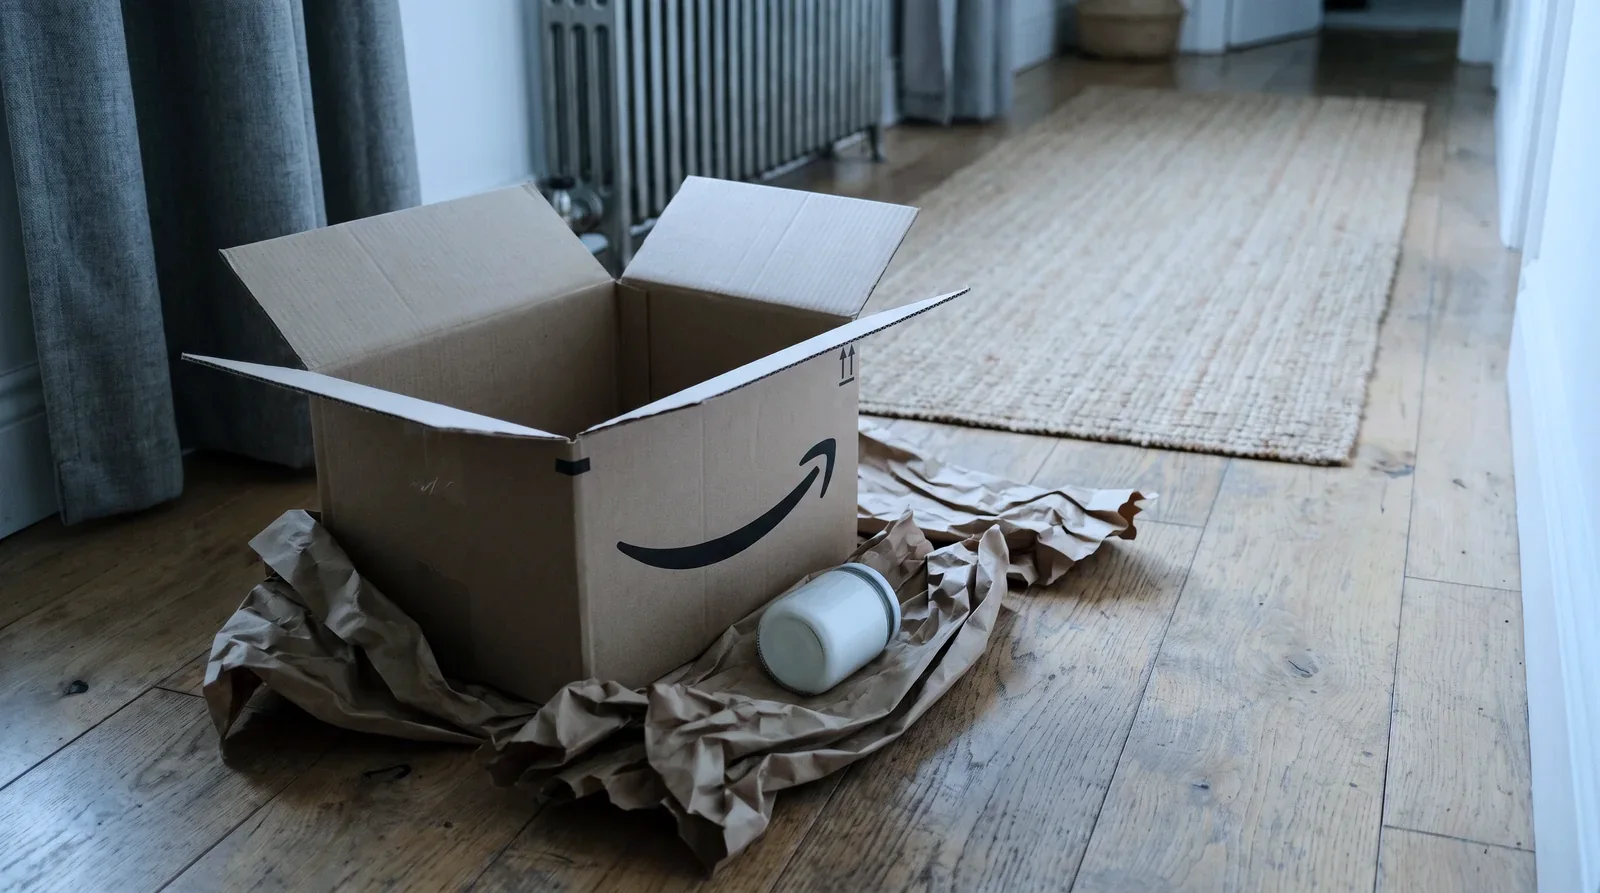
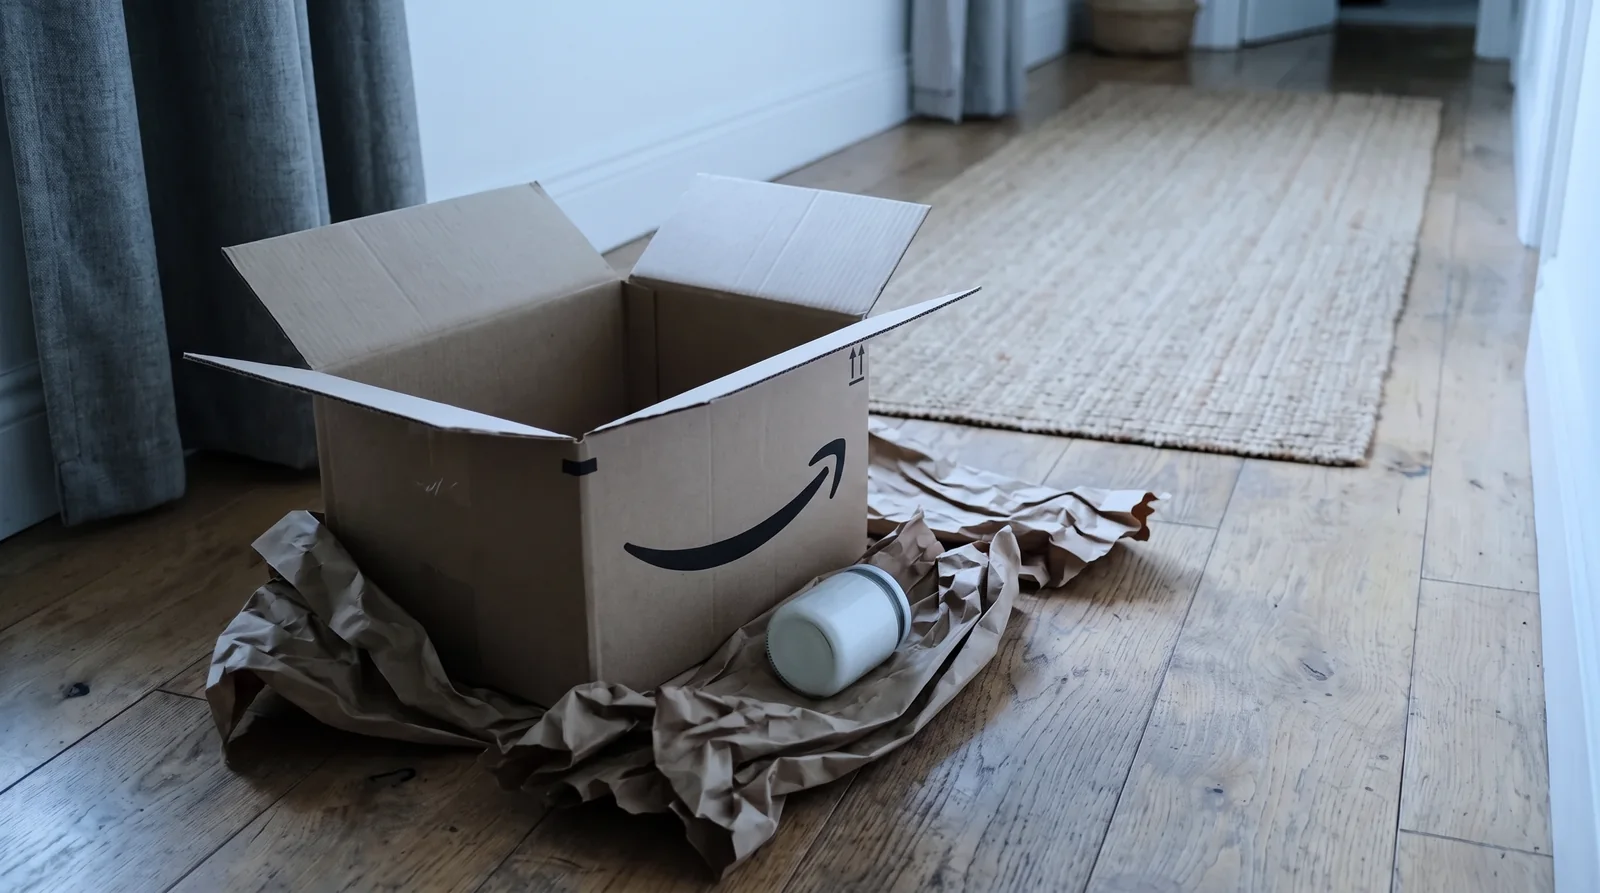
Skincare on Amazon villain: radiator removed from the hallway

diff --git a/blog-pipeline/photos-completed/is-it-safe-to-buy-skincare-on-amazon.md b/blog-pipeline/photos-completed/is-it-safe-to-buy-skincare-on-amazon.md
@@ -4,7 +4,7 @@ post_title: "Is It Safe to Buy Skincare on Amazon? (2026)"
 slug: is-it-safe-to-buy-skincare-on-amazon
 status: done
 cameron_processed: false
-note: "SHOPPER TRACK, shot on Higgsfield nano-banana-pro at native 2752x1536 and delivered at 1600px webp. Every frame run through the 14-point checklist in PHOTO-CLAUDE-RULES.md before committing. THE VILLAIN IS THE MARKETPLACE, NOT A BRAND, so the recognisable object is the delivery box itself: a plain brown corrugated box carrying ONE black curved smile arrow and no other printing, which was looked up in Chrome first. The cream is deliberately a small PLAIN WHITE JAR with no label, because the mercury creams in the California case were unbranded imports and putting a real skincare brand on screen would blame the wrong company. ONE woman across the set: a Black woman of about 52 with dark brown skin, shoulder-length black hair going grey pulled back, faint darker patches on her cheeks and jaw, a soft lilac linen shirt. THE ROOM is her modern bedroom: white oak dressing table, rectangular mirror, rattan-back chair, sage green upholstered bed, framed abstract prints, trailing plant, full length linen curtains. Hero is her patting the cream onto her cheekbone on an ordinary morning, hopeful and unsuspicious, the opened box and packing paper beside her. VILLAIN CARRIES THE ARGUMENT with nobody in it: the opened box on the hall floor just inside the front door, paper spilling out and the plain white jar sitting in it. It came from the place she orders everything from, and it looks completely ordinary. Turning point has her set the jar down, take her hand off it and turn to the window, the box already flattened against the wall. BELONGING IS A NEW SETTING: two clearly different women in their fifties scattering feed for hens in a tidy modern garden with a wooden coop, both laughing, scoops held low. Freedom is the warmest: her in the open garden doorway of her modern kitchen with the morning sun full on her bare face, laughing. Two frames were reshot because the model changed her ethnicity between shots, which broke continuity: the approved hero was fed back as an image reference to lock her face. Freedom redone 2026-10-12 for check 15; it was the only kitchen frame and was a tight crop of a kitchen corner at a door. New freedom is a wide shot of a big lived-in kitchen in a suburban house in Atlanta, Georgia: oak shaker cabinets, white quartz island with a bowl of lemons, stainless French-door fridge, dishwasher, gas range with full oven door and a tea towel, floor-length cream linen curtains on black rods at the windows and the open back door, the same woman laughing in the doorway in golden sun. A British socket was painted out and the dishwasher and range displays blurred by hand. Hero, villain, turning point and belonging kept; villain cooled. Measured R/B ramp: villain 0.92, hero 1.16, turning point 1.21, belonging 1.38, freedom 1.71."
+note: "SHOPPER TRACK, shot on Higgsfield nano-banana-pro at native 2752x1536 and delivered at 1600px webp. Every frame run through the 14-point checklist in PHOTO-CLAUDE-RULES.md before committing. THE VILLAIN IS THE MARKETPLACE, NOT A BRAND, so the recognisable object is the delivery box itself: a plain brown corrugated box carrying ONE black curved smile arrow and no other printing, which was looked up in Chrome first. The cream is deliberately a small PLAIN WHITE JAR with no label, because the mercury creams in the California case were unbranded imports and putting a real skincare brand on screen would blame the wrong company. ONE woman across the set: a Black woman of about 52 with dark brown skin, shoulder-length black hair going grey pulled back, faint darker patches on her cheeks and jaw, a soft lilac linen shirt. THE ROOM is her modern bedroom: white oak dressing table, rectangular mirror, rattan-back chair, sage green upholstered bed, framed abstract prints, trailing plant, full length linen curtains. Hero is her patting the cream onto her cheekbone on an ordinary morning, hopeful and unsuspicious, the opened box and packing paper beside her. VILLAIN CARRIES THE ARGUMENT with nobody in it: the opened box on the hall floor just inside the front door, paper spilling out and the plain white jar sitting in it. It came from the place she orders everything from, and it looks completely ordinary. Turning point has her set the jar down, take her hand off it and turn to the window, the box already flattened against the wall. BELONGING IS A NEW SETTING: two clearly different women in their fifties scattering feed for hens in a tidy modern garden with a wooden coop, both laughing, scoops held low. Freedom is the warmest: her in the open garden doorway of her modern kitchen with the morning sun full on her bare face, laughing. Two frames were reshot because the model changed her ethnicity between shots, which broke continuity: the approved hero was fed back as an image reference to lock her face. Freedom redone 2026-10-12 for check 15; it was the only kitchen frame and was a tight crop of a kitchen corner at a door. New freedom is a wide shot of a big lived-in kitchen in a suburban house in Atlanta, Georgia: oak shaker cabinets, white quartz island with a bowl of lemons, stainless French-door fridge, dishwasher, gas range with full oven door and a tea towel, floor-length cream linen curtains on black rods at the windows and the open back door, the same woman laughing in the doorway in golden sun. A British socket was painted out and the dishwasher and range displays blurred by hand. Hero, villain, turning point and belonging kept; villain cooled. Measured R/B ramp: villain 0.92, hero 1.16, turning point 1.21, belonging 1.38, freedom 1.71. Villain fixed 2026-10-13 for an American home: the hallway had an old metal radiator against the wall behind the box. It is now plain white wall and baseboard; box, packing paper, white jar, runner, curtains and light are kept. Villain stays the coolest frame of the set."
 ---
 
 ### isitsafetob-hero-v1
